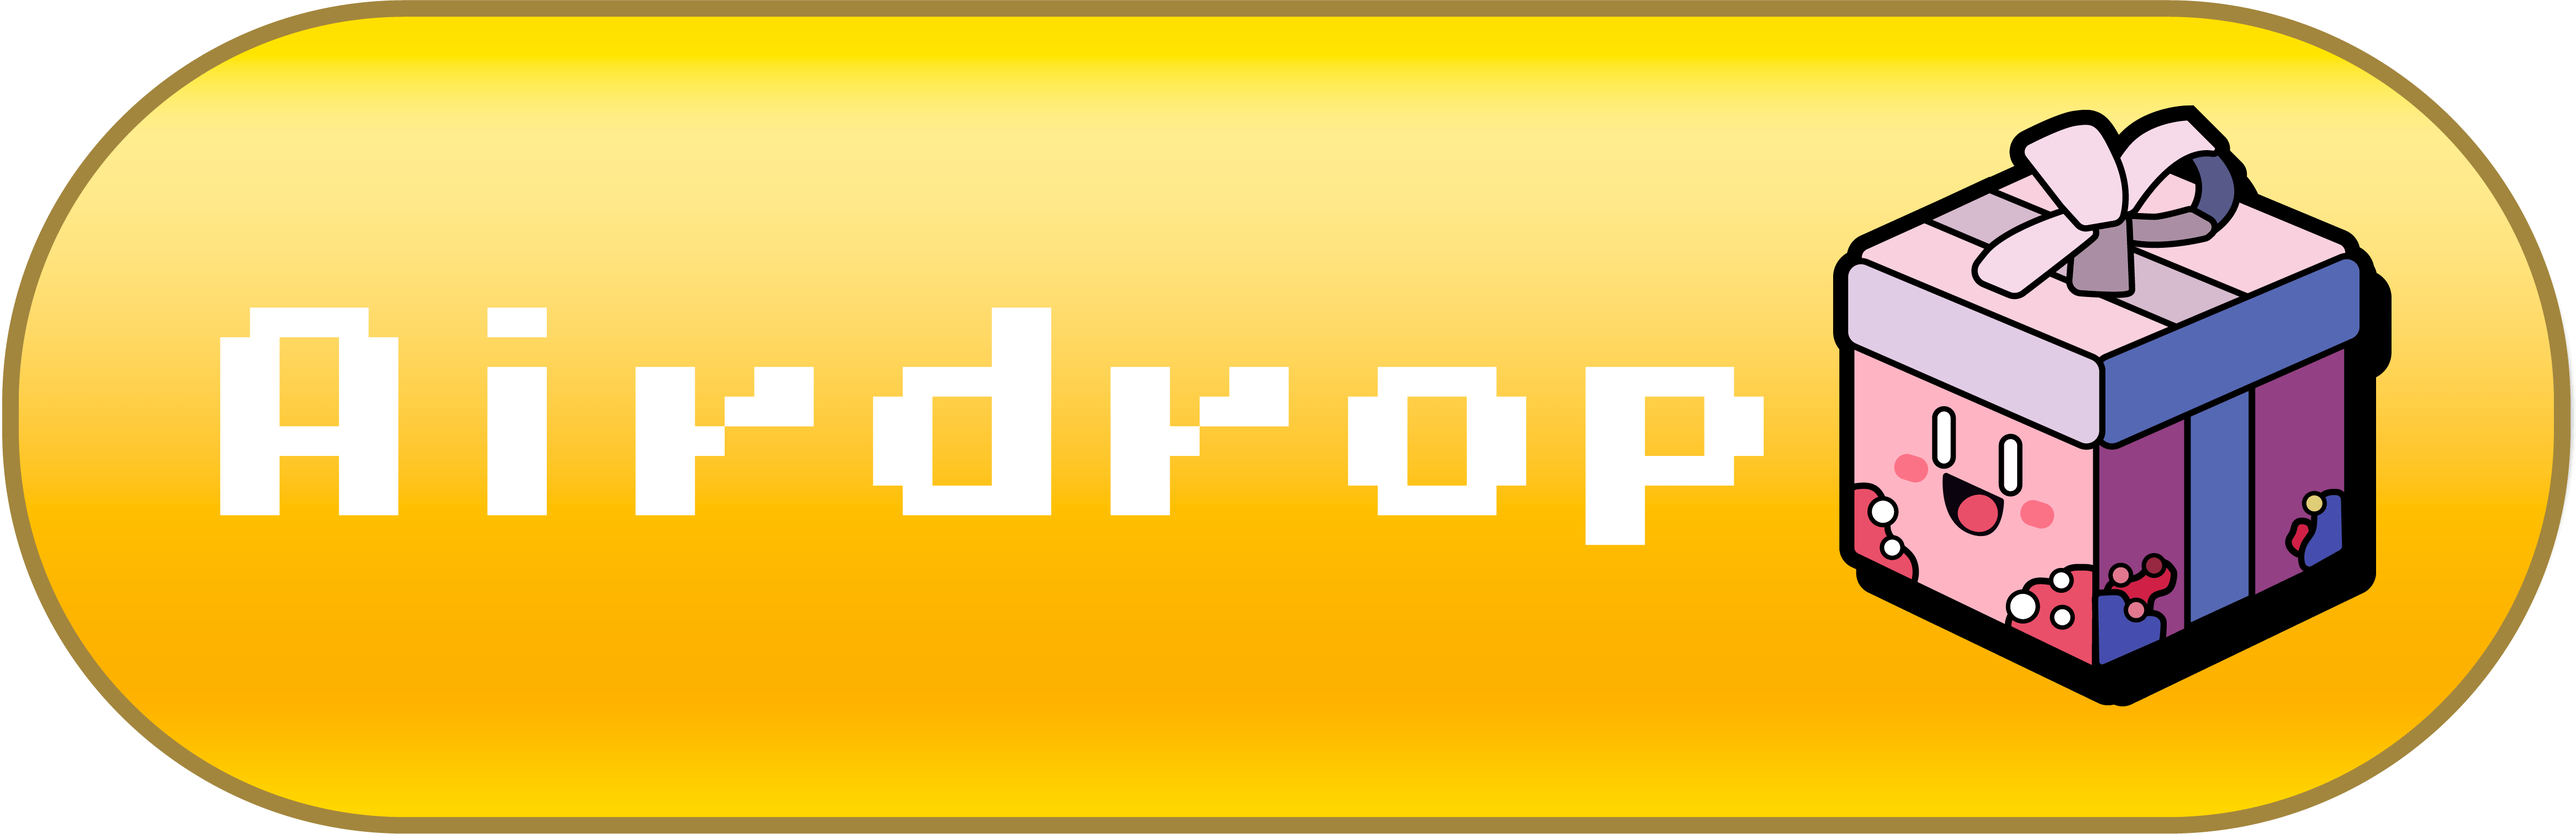
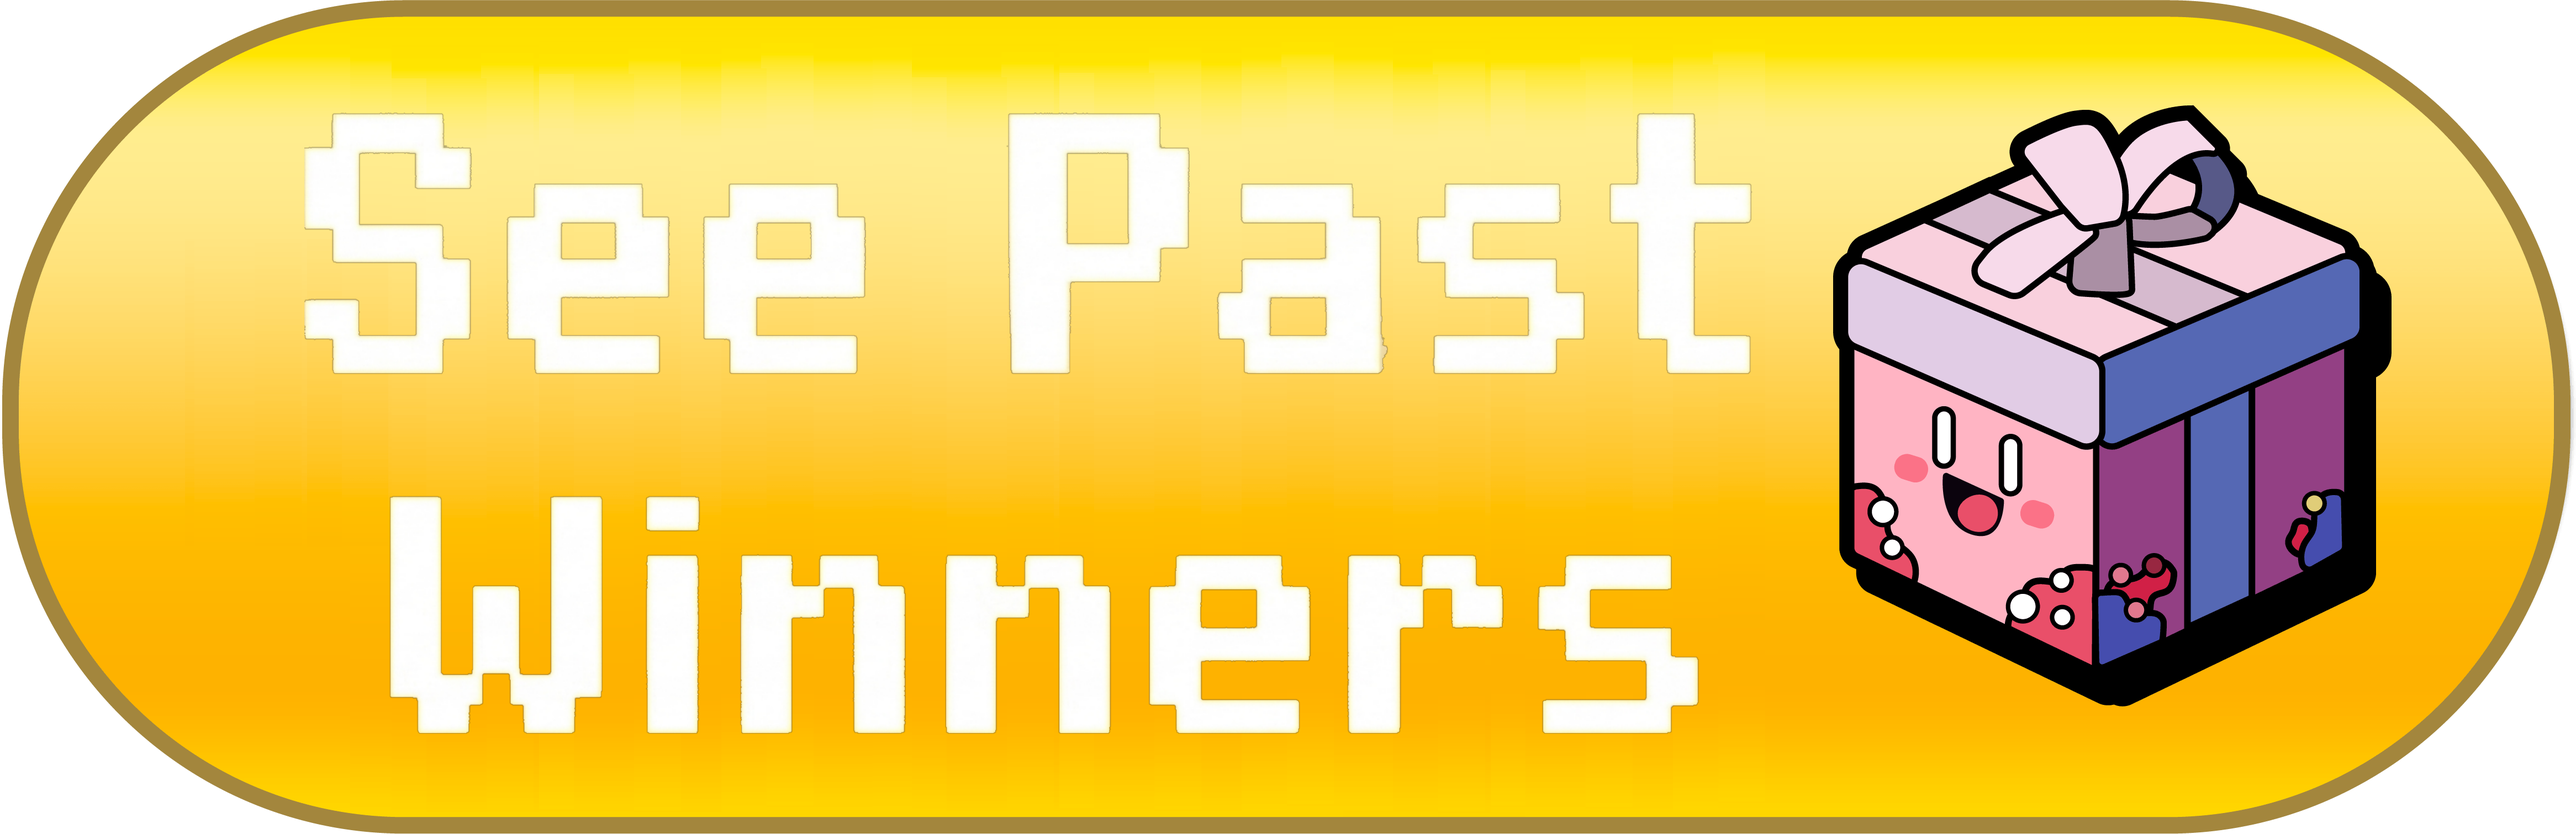
moonxbt: add auction winners and twitter feed
- swap airdrop modal for a winners history view
- display the latest winner and bid amount from auction data
- add an embedded twitter timeline for social proof
- update footer links and button interactions

Changed region(s): [[0.0622, 0.0622, 0.684, 0.9021], [0.342, 0.0622, 0.4974, 0.0933], [0.5285, 0.0622, 0.5596, 0.0933]]

diff --git a/src/app/landing/page.tsx b/src/app/landing/page.tsx
@@ -1,7 +1,8 @@
 "use client";
 import Image from "next/image";
-import { useState } from "react";
+import { useEffect, useRef, useState } from "react";
 import { Press_Start_2P } from "next/font/google";
+import { formatUnits } from "viem";
 
 import bg from "./png/Background_main_1.jpg";
 import logo from "./png/Logotipo_moonXBT_1@2x-8.png";
@@ -20,8 +21,8 @@ import {
   SiInstagram,
 } from "react-icons/si";
 import TerminalSnippet from "@/components/TerminalSnippet";
-import AirdropModal from "@/components/AirdropModal";
 import { VideoAuctionSheet } from "@/components/VideoAuctionSheet";
+import { useAuctionData } from "@/hooks/useAuctionData";
 
 const press = Press_Start_2P({
   weight: "400",
@@ -30,14 +31,173 @@ const press = Press_Start_2P({
 });
 
 export default function LandingPage() {
-  const [isAirdropOpen, setIsAirdropOpen] = useState(false);
+  const [isWinnersOpen, setIsWinnersOpen] = useState(false);
   const [isAuctionOpen, setIsAuctionOpen] = useState(false);
+  const [isTweetsLoading, setIsTweetsLoading] = useState(true);
+  const [isTweetsFailed, setIsTweetsFailed] = useState(false);
+  const tweetsContainerRef = useRef<HTMLDivElement | null>(null);
+  const { lastAuctionWinner, lastAuctionAmount, lastAuctionResourceValue } =
+    useAuctionData();
+
+  const parseAuctionResource = (
+    resource: string | undefined,
+  ): string | null => {
+    if (!resource) return null;
+
+    try {
+      const parsed = JSON.parse(resource) as { url?: string };
+      return parsed.url ?? resource;
+    } catch {
+      return resource;
+    }
+  };
+
+  const winnerEntries =
+    lastAuctionWinner && lastAuctionAmount
+      ? [
+          {
+            id: "latest",
+            winner: `${lastAuctionWinner.slice(0, 6)}...${lastAuctionWinner.slice(-4)}`,
+            amount: `${formatUnits(lastAuctionAmount, 18)} MXBT`,
+            resource: parseAuctionResource(lastAuctionResourceValue),
+          },
+        ]
+      : [];
+
+  const ensureTwitterScript = async () => {
+    if (typeof window === "undefined") {
+      throw new Error("Window is not available");
+    }
+
+    const twttrWindow = window as Window & {
+      twttr?: {
+        widgets?: {
+          createTimeline?: (
+            dataSource: { sourceType: "profile"; screenName: string },
+            target: HTMLElement,
+            options?: {
+              theme?: "dark" | "light";
+              chrome?: string;
+              height?: number;
+            },
+          ) => Promise<HTMLElement>;
+        };
+      };
+    };
+
+    if (twttrWindow.twttr?.widgets?.createTimeline) {
+      return twttrWindow.twttr;
+    }
+
+    await new Promise<void>((resolve, reject) => {
+      const existingScript = document.querySelector(
+        'script[src="https://platform.twitter.com/widgets.js"]',
+      ) as HTMLScriptElement | null;
+
+      if (existingScript) {
+        existingScript.addEventListener("load", () => resolve(), {
+          once: true,
+        });
+        existingScript.addEventListener(
+          "error",
+          () => reject(new Error("Failed to load Twitter script")),
+          { once: true },
+        );
+
+        const maybeReady = () => {
+          if (twttrWindow.twttr?.widgets?.createTimeline) {
+            resolve();
+          }
+        };
+        window.setTimeout(maybeReady, 50);
+        window.setTimeout(maybeReady, 250);
+        return;
+      }
+
+      const script = document.createElement("script");
+      script.src = "https://platform.twitter.com/widgets.js";
+      script.async = true;
+      script.charset = "utf-8";
+      script.onload = () => resolve();
+      script.onerror = () => reject(new Error("Failed to load Twitter script"));
+      document.body.appendChild(script);
+    });
+
+    if (!twttrWindow.twttr?.widgets?.createTimeline) {
+      throw new Error("Twitter widgets API unavailable");
+    }
+
+    return twttrWindow.twttr;
+  };
+
+  useEffect(() => {
+    if (isWinnersOpen && winnerEntries.length === 0) {
+      setIsTweetsLoading(true);
+      setIsTweetsFailed(false);
+      let cancelled = false;
+
+      const mountTimeline = async () => {
+        try {
+          const target = tweetsContainerRef.current;
+          if (!target) {
+            throw new Error("Timeline container not found");
+          }
+
+          target.innerHTML = "";
+
+          const twttr = await ensureTwitterScript();
+          if (cancelled) return;
+
+          await Promise.race([
+            twttr.widgets!.createTimeline!(
+              {
+                sourceType: "profile",
+                screenName: "moonXBT_ai",
+              },
+              target,
+              {
+                theme: "dark",
+                chrome: "noheader nofooter noborders",
+                height: 420,
+              },
+            ),
+            new Promise((_, reject) => {
+              window.setTimeout(
+                () => reject(new Error("Timeline load timeout")),
+                7000,
+              );
+            }),
+          ]);
+
+          if (cancelled) return;
+          setIsTweetsLoading(false);
+          setIsTweetsFailed(false);
+        } catch {
+          if (cancelled) return;
+          setIsTweetsLoading(false);
+          setIsTweetsFailed(true);
+        }
+      };
+
+      mountTimeline();
+
+      return () => {
+        cancelled = true;
+      };
+    }
+
+    setIsTweetsLoading(true);
+    setIsTweetsFailed(false);
+  }, [isWinnersOpen, winnerEntries.length]);
+
   return (
     <main
-      className="relative min-h-screen w-full overflow-hidden [cursor:none] select-none"
+      className={`relative min-h-screen w-full overflow-hidden select-none ${
+        isWinnersOpen ? "cursor-auto" : "[cursor:none]"
+      }`}
       suppressHydrationWarning
     >
-      <CustomCursor />
+      {!isWinnersOpen && <CustomCursor />}
 
       <div className="absolute inset-0 -z-10">
         <Image
@@ -117,18 +277,18 @@ export default function LandingPage() {
           </button>
           <button
             type="button"
-            onClick={() => setIsAirdropOpen(true)}
+            onClick={() => setIsWinnersOpen(true)}
             className="cursor-none"
           >
-            <span className="sr-only">Open airdrop</span>
+            <span className="sr-only">See previous winners</span>
             <div className="relative h-[56px] w-[160px] md:h-[64px] md:w-[216px] lg:h-[70px] lg:w-[246px] transition hover:brightness-110">
               <Image
                 src={yellowBtn}
-                alt="Open airdrop"
+                alt="See previous winners"
                 fill
                 className="object-contain"
                 draggable={false}
-              />
+              />              
             </div>
           </button>
         </div>
@@ -201,26 +361,6 @@ export default function LandingPage() {
             <SiInstagram aria-hidden className="text-white" size={32} />
           </a>
           <a
-            href="https://zora.co/@moonxbt"
-            target="_blank"
-            rel="noopener noreferrer"
-            aria-label="Zora"
-            className="cursor-none"
-          >
-            <Image
-              src="/assets/zora.png"
-              alt="Zora"
-              width={32}
-              height={32}
-              className="opacity-90 hover:opacity-100 transition"
-              style={{
-                filter:
-                  "invert(100%) sepia(100%) saturate(100%) hue-rotate(180deg) brightness(400%) contrast(100%)",
-              }}
-              draggable={false}
-            />
-          </a>
-          <a
             href="https://dexscreener.com/base/0xa1a65c284a2e01f0d9c9683edeab30d0835d1362"
             target="_blank"
             rel="noopener noreferrer"
@@ -238,13 +378,131 @@ export default function LandingPage() {
           </a>
         </div>
         <p className="mx-auto mt-3 max-w-3xl px-6 text-[9px] md:text-[11px] leading-relaxed text-white/80 text-center">
-        MoonXBT is an AI-powered content creator built on A0x and deployed on Base. She crafts one unique video daily based on the request of the highest auction bidder. All funds raised are used to purchase $A0X tokens, which are locked for 4 months. Afterward, 2% of the funds are airdropped weekly to the community.
-</p>
+          MoonXBT is an AI-powered content creator built on A0x and deployed on
+          Base. She crafts one unique video daily based on the request of the
+          highest auction bidder. All funds raised are used to purchase $A0X
+          tokens, which are locked for 4 months. Afterward, 2% of the funds are
+          airdropped weekly to the community.
+        </p>
       </footer>
-      <AirdropModal
-        isOpen={isAirdropOpen}
-        onClose={() => setIsAirdropOpen(false)}
-      />
+      {isWinnersOpen && (
+        <div className="fixed inset-0 z-50 flex items-center justify-center bg-black/60 backdrop-blur-sm px-4 cursor-auto">
+          <div className="relative w-full max-w-2xl border border-white/25 bg-[#000] rounded-xl p-5 md:p-7 text-white shadow-[0_18px_60px_rgba(0,0,0,0.45)]">
+            <button
+              type="button"
+              onClick={() => setIsWinnersOpen(false)}
+              className="absolute right-3 top-3 h-10 w-10 rounded-full border border-white/40 bg-white/10 text-2xl leading-none hover:bg-white/20 cursor-pointer"
+              aria-label="Close previous winners"
+            >
+              ×
+            </button>
+
+            <h2 className={`${press.className} text-sm md:text-base uppercase`}>
+              Previous Winners
+            </h2>
+            <p className="mt-2 text-xs md:text-sm text-white/80">
+              Check who won recent auctions and what they promoted.
+            </p>
+
+            {winnerEntries.length > 0 ? (
+              <div className="mt-5 space-y-3">
+                {winnerEntries.map((entry) => (
+                  <div
+                    key={entry.id}
+                    className="rounded-lg border border-white/20 bg-[#133db2]/75 p-4"
+                  >
+                    <div className="flex items-center justify-between gap-3">
+                      <span
+                        className={`${press.className} text-[10px] uppercase text-white/80`}
+                      >
+                        Latest Winner
+                      </span>
+                      <span className="text-xs md:text-sm font-semibold text-[#ffd34d]">
+                        {entry.amount}
+                      </span>
+                    </div>
+                    <p className="mt-2 text-sm md:text-base break-all">
+                      {entry.winner}
+                    </p>
+                    {entry.resource && (
+                      <a
+                        href={entry.resource}
+                        target="_blank"
+                        rel="noopener noreferrer"
+                        className="mt-3 inline-block text-xs md:text-sm text-white underline underline-offset-2 hover:text-[#ffd34d]"
+                      >
+                        View promoted link
+                      </a>
+                    )}
+                  </div>
+                ))}
+              </div>
+            ) : (
+              <div className="mt-6 space-y-3">
+                <div className="rounded-lg border border-white/20 bg-[#133db2]/75 p-4 mb-8">
+                  <p
+                    className={`${press.className} text-[10px] uppercase text-white/80`}
+                  >
+                    No winners yet
+                  </p>
+                  <p className="mt-2 text-sm text-white/90">
+                    We are still collecting the first completed auction results.
+                    Follow MoonXBT on X while the first winner comes in.
+                  </p>
+                </div>
+                <p
+                  className={`${press.className} text-[10px] uppercase text-white/80 px-1`}
+                >
+                  my previows tweets
+                </p>
+                <div
+                  className="relative overflow-hidden rounded-lg border border-white/25 bg-[#0d121d] min-h-[420px]"
+                >
+                  <div ref={tweetsContainerRef} className="absolute inset-0 z-0" />
+
+                  {isTweetsLoading && (
+                    <div className="absolute inset-0 z-10 bg-[#0d121d] p-4">
+                      <div className="h-full w-full rounded-md border border-white/10 bg-[#111827] p-4 animate-pulse">
+                        <div className="h-4 w-40 rounded bg-white/15" />
+                        <div className="mt-4 h-3 w-full rounded bg-white/10" />
+                        <div className="mt-2 h-3 w-[88%] rounded bg-white/10" />
+                        <div className="mt-6 h-[290px] w-full rounded bg-white/10" />
+                      </div>
+                      <p className="mt-3 text-xs text-white/70 text-center">
+                        Loading tweets...
+                      </p>
+                    </div>
+                  )}
+
+                  {isTweetsFailed && !isTweetsLoading && (
+                    <div className="absolute inset-0 z-10 flex flex-col items-center justify-center bg-[#0d121d] p-6 text-center">
+                      <p className="text-sm text-white/85">
+                        Couldn&apos;t load the embedded timeline on this browser.
+                      </p>
+                      <a
+                        href="https://x.com/moonXBT_ai"
+                        target="_blank"
+                        rel="noopener noreferrer"
+                        className="mt-4 inline-flex justify-center rounded-lg border border-white/25 bg-[#133db2]/75 px-4 py-2 text-sm font-semibold text-white hover:bg-[#0f3293] cursor-pointer"
+                      >
+                        Open Timeline on X
+                      </a>
+                    </div>
+                  )}
+                </div>
+                <a
+                  href="https://x.com/moonXBT_ai"
+                  target="_blank"
+                  rel="noopener noreferrer"
+                  className="inline-flex justify-center rounded-lg border border-white/25 bg-[#133db2]/75 px-4 py-2 text-sm font-semibold text-white hover:bg-[#0f3293] cursor-pointer"
+                >
+                  Open Profile on X
+                </a>
+              </div>
+            )}
+          </div>
+        </div>
+      )}
       <VideoAuctionSheet
         isOpen={isAuctionOpen}
         onClose={() => setIsAuctionOpen(false)}
